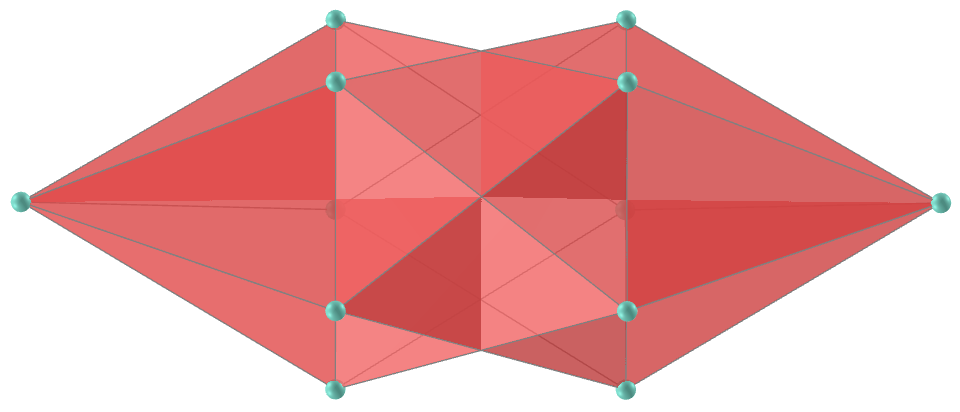
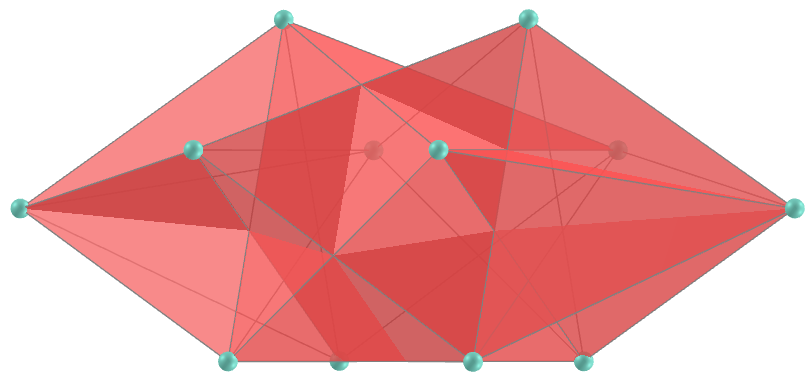
update

diff --git a/deltahedra/vr/33_PentagrammicAntiprismAugmented.htm b/deltahedra/vr/33_PentagrammicAntiprismAugmented.htm
@@ -22,7 +22,7 @@
 			<a-asset-item id="poliw" src="obj/33_PentagrammicAntiprismAugmentedL.obj"></a-asset-item>
 		</a-assets>
 		
-		<a-entity scale="5 5 5" rotation="0 90 0">
+		<a-entity scale="5 5 5" rotation="0 60 0">
 			<a-obj-model id="fc" src="#poli" mtl="#material" scale="0.998 0.998 0.998"></a-obj-model>
 			<a-obj-model id="ar" src="#poliw" mtl="#material"></a-obj-model>
 			<a-sphere mixin='esfera' position='0.30902 -0.42533 0.39308'></a-sphere>